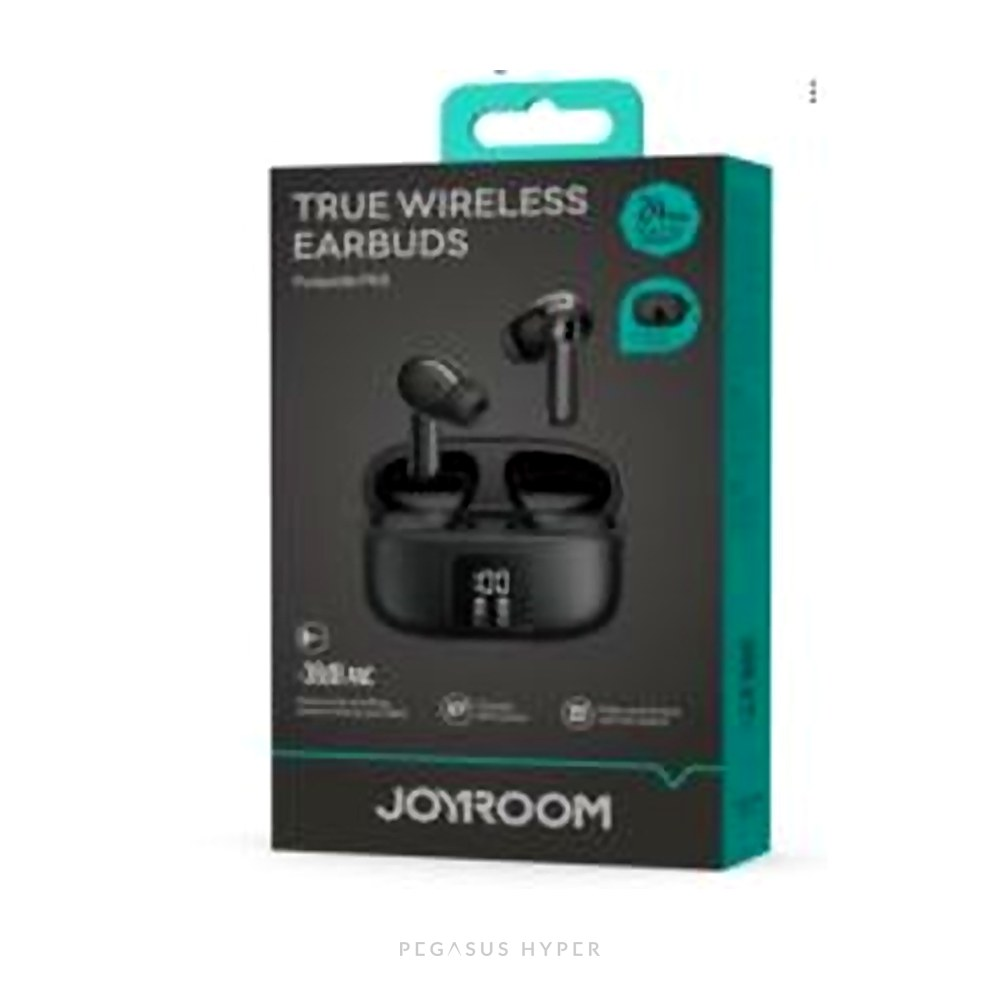
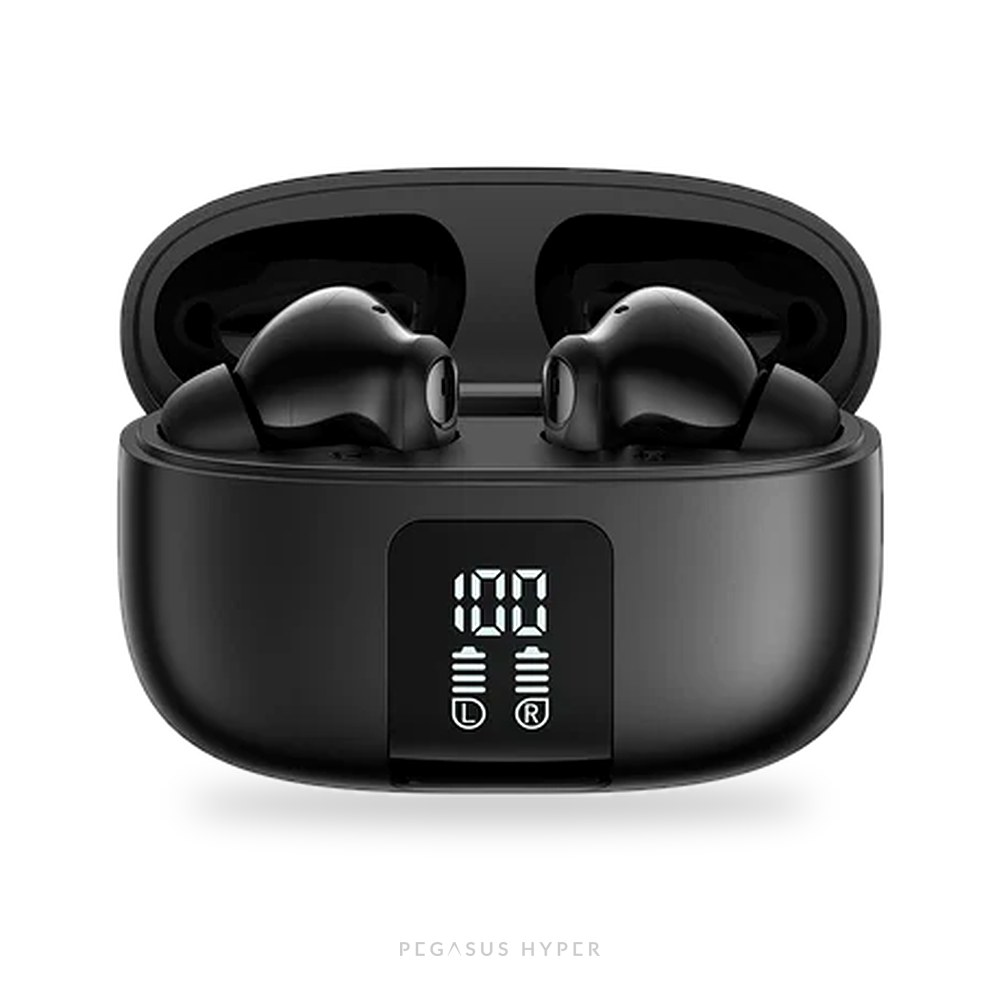
Fotos oficiales: Joyroom JR-FN3
Claude-Session: https://claude.ai/code/session_01QzBC3GvQTn7Gt9U5Snn8Cv

diff --git a/public/index.html b/public/index.html
@@ -551,8 +551,8 @@ const prodById=id=>PRODUCTS.find(p=>p.id===id);
 
 /* ---------- product card ---------- */
 const EXTRA={"MER0052":{"modelo":"LX-10","descripcion":"Audífonos inalámbricos con estuche de carga que trae pantalla táctil a color, para controlar la música y ver la batería sin sacar el celular.\n• Conexión Bluetooth: se emparejan al abrir el estuche\n• Pantalla en el estuche para controlar música y volumen\n• Diseño in-ear liviano, cómodo para usar todo el día\n• Micrófono para llamadas manos libres\nIdeal para: música, llamadas, clases y videos."},"MER0038":{"modelo":"Z10 Plus","descripcion":"Audífonos inalámbricos con estuche inteligente de pantalla táctil y modo de reducción de ruido.\n• Pantalla en el estuche para cambiar canción, volumen y modos\n• Modo de reducción de ruido para concentrarse en lo que escucha\n• Conexión Bluetooth rápida y estable\n• Micrófono para llamadas manos libres\nIdeal para: el bus, el trabajo y el gimnasio."},"MER0040":{"modelo":"L58","descripcion":"Audífonos inalámbricos con estuche de carga con pantalla, diseño compacto y elegante.\n• Pantalla en el estuche para controlar la música y ver la batería\n• Conexión Bluetooth con emparejamiento automático\n• Micrófono para llamadas manos libres\n• Estuche pequeño que cabe en cualquier bolsillo\nIdeal para: el día a día, llamadas y entretenimiento."},"6975011279940":{"modelo":"GH-28","descripcion":"Audífonos inalámbricos in-ear con Bluetooth 5.3 para una conexión estable y bajo consumo de batería.\n• Bluetooth 5.3 con alcance de unos 10 metros\n• Hasta 4 horas de conversación por carga\n• El estuche recarga los audífonos varias veces (250 mAh)\n• Carga completa en unas 2 horas\n• Hasta 60 horas en espera\nIdeal para: llamadas, música y uso diario."},"6974202422141":{"modelo":"Z50","descripcion":"Audífonos inalámbricos con estuche de pantalla táctil y modo de reducción de ruido, con almohadillas de varios tamaños.\n• Pantalla táctil en el estuche: controle música, volumen y modos\n• Modo de reducción de ruido\n• Incluye almohadillas de repuesto de distintos tamaños para un mejor ajuste\n• Incluye cable de carga USB tipo C\n• Micrófono para llamadas manos libres\nIdeal para: quien busca tecnología y estilo a buen precio."},"6974208800187":{"modelo":"ATW-10","descripcion":"Audífonos inalámbricos in-ear livianos, con estuche de carga compacto.\n• Conexión Bluetooth con emparejamiento automático al abrir el estuche\n• Controles táctiles en los audífonos\n• Micrófono para llamadas manos libres\n• Estuche de bolsillo que los protege y recarga\nIdeal para: música, llamadas y uso diario."},"6942712400423":{"modelo":"JR-FN3","descripcion":"Audífonos inalámbricos con cancelación activa de ruido (ANC) que bloquea hasta 38 dB del ruido exterior.\n• Cancelación activa de ruido para aislarse en el bus, la oficina o la calle\n• 4 micrófonos con reducción de ruido (ENC): su voz se escucha clara en llamadas\n• App oficial para ecualizar el sonido y personalizar los controles táctiles\n• Pantalla en el estuche que muestra la batería exacta\n• Incluye funda protectora y mosquetón para colgarlos de la mochila\nIdeal para: viajes, trabajo y llamadas en lugares ruidosos."},"6956116759285":{"modelo":"JR-OH1","descripcion":"Audífonos de diadema inalámbricos con almohadillas acolchadas para usar cómodamente por horas.\n• Hasta 15 horas de música por carga\n• Bluetooth 5.0 con conexión estable\n• Bocinas de 40 mm con bajos profundos\n• Modo con cable: incluye cable de 3,5 mm para usarlos sin batería\n• Micrófono integrado para llamadas manos libres\nIdeal para: clases, trabajo, juegos y música."},"MBL005":{"modelo":"BT12C","descripcion":"Intercomunicador Bluetooth para casco: escuche música, conteste llamadas y siga el GPS mientras maneja.\n• Bluetooth 5.0 con alcance de unos 10 metros\n• Batería de 1000 mAh: entre 15 y 20 horas de uso continuo\n• Contestación de llamadas automática o manual\n• Bocinas delgadas de 30 mm que caben dentro del casco\n• Se instala en la mayoría de cascos integrales y abiertos\nIdeal para: motociclistas, mensajeros y repartidores."},"MBL0009":{"modelo":"BT22","descripcion":"Intercomunicador Bluetooth para casco con micrófono, para manejar con las manos libres.\n• Escuche música, instrucciones del GPS y conteste llamadas sin tocar el celular\n• Micrófono con brazo flexible para que su voz se escuche clara\n• Bocinas delgadas que se colocan dentro del casco\n• Batería recargable por USB\nIdeal para: motociclistas, mensajeros y repartidores."},"PPB0179":{"modelo":"Y-598","descripcion":"Parlante Bluetooth con luces RGB y sonido envolvente de 360°, que también funciona como lámpara de ambiente.\n• Sonido en 360° con bocina de 40 mm y buenos bajos\n• 7 modos de iluminación RGB\n• Conexión Bluetooth 5.0, radio FM, tarjeta TF, USB y AUX\n• Se pueden conectar dos parlantes iguales en estéreo (TWS)\n• Potencia de 5 W y batería de 1200 mAh\nIdeal para: el cuarto, la sala o una reunión pequeña."},"PPB0186":{"modelo":"GS-31","descripcion":"Parlante Bluetooth estéreo con doble bocina y función manos libres.\n• Potencia de 5 W × 2 con dos bocinas de 52 mm\n• Bluetooth 5.0 con alcance de 10 metros\n• Contesta llamadas desde el parlante\n• Batería de 1200 mAh: unas 3 horas de música a volumen normal\n• Carga completa en 3 a 4 horas\nIdeal para: llevar a cualquier lado, la casa o la oficina."},"689237565287":{"modelo":"OP-528","descripcion":"Parlante Bluetooth potente de 25 W con bocina de 4\" y tweeter de 1,5\" para un sonido completo, con graves y agudos claros.\n• Potencia máxima de 25 W\n• Bocina de rango completo de 4\" + tweeter de 1,5\"\n• Bluetooth 5.0 + EDR\n• Batería de 3600 mAh: unas 6 horas de música\n• Carga por puerto USB tipo C (unas 4 horas)\nIdeal para: fiestas, paseos y reuniones."},"689237566587":{"modelo":"OP-521","descripcion":"Parlante Bluetooth con luces LED de colores y cargador inalámbrico para el celular en la parte superior.\n• Cargador inalámbrico integrado: ponga el celular encima y se carga\n• Iluminación LED RGB\n• Potencia de 10 W\n• Bluetooth 5.0 con alcance de 10 metros\n• Conexión por USB, AUX y puerto tipo C\n• Función manos libres para llamadas\nIdeal para: el escritorio o la mesa de noche."},"6920465335506":{"modelo":"OP-550","descripcion":"Parlante Bluetooth para karaoke con dos micrófonos incluidos y luces RGB.\n• Incluye 2 micrófonos para cantar en pareja\n• Luces LED de colores que acompañan la música\n• Conexión Bluetooth con el celular para poner sus canciones\n• Asa para llevarlo a donde quiera\nIdeal para: fiestas, cumpleaños y karaoke en familia."},"6954851211907":{"modelo":"RB-M2","descripcion":"Parlante Bluetooth compacto y resistente al agua, con correa para llevarlo a todas partes.\n• Resistente a salpicaduras y lluvia (IPX5)\n• Potencia de 5 W\n• Batería de 1200 mAh\n• Bluetooth con alcance de unos 10 metros\n• Tamaño de bolsillo con correa\nIdeal para: la playa, la piscina, la ducha y los paseos."},"6954823523243":{"modelo":"P-01","descripcion":"Cargador de pared compacto con salida USB tipo C para cargar el celular en casa o en la oficina.\n• Salida USB tipo C compatible con la mayoría de celulares actuales\n• Diseño compacto con enchufe de patas planas (tipo americano)\nIdeal para: tener un cargador extra en el cuarto, la oficina o el carro de viaje."},"CTC0036":{"modelo":"EI2","descripcion":"Cargador de pared con carga rápida Quick Charge 3.0 (hasta 18 W), incluye cable USB tipo C.\n• Carga rápida QC 3.0 de hasta 18 W\n• Incluye cable USB a tipo C\n• Funciona con voltaje de 100 a 240 V\n• Material resistente al fuego (PC+ABS grado V0)\nIdeal para: celulares Android con puerto tipo C."},"6975011274839":{"modelo":"GA-55MTO","descripcion":"Cargador de pared con salida tipo C y cable trenzado tipo C, en un llamativo color naranja.\n• Salida USB tipo C\n• Cable trenzado resistente, que no se enreda fácilmente\n• Diseño compacto en forma de cubo\nIdeal para: celulares, audífonos y otros dispositivos con puerto tipo C."},"6954851233770":{"modelo":"RCC353","descripcion":"Cargador de carro con transmisor FM: cargue el celular y escuche su música por el radio del carro.\n• Transmisor FM: envía la música del celular al radio del carro\n• Carga rápida PD + QC de hasta 60 W\n• Varios puertos para cargar más de un dispositivo a la vez\nIdeal para: carros sin Bluetooth ni entrada auxiliar."},"6971916562231":{"modelo":"CB21","descripcion":"Cable USB a tipo C de 1 metro con carga rápida de hasta 65 W.\n• Carga rápida de hasta 65 W\n• Transfiere datos y carga al mismo tiempo\n• 1 metro de largo\nIdeal para: celulares Android, tablets y audífonos con puerto tipo C."},"CBCL0022":{"modelo":"CB26","descripcion":"Cable USB a Lightning de 2 metros con conector en ángulo de 90°, para cargar el iPhone mientras lo usa.\n• 2 metros de largo: alcanza la cama o el sillón\n• Conector en ángulo: no estorba al jugar o ver videos en horizontal\n• Carga y transferencia de datos\nIdeal para: iPhone, especialmente para juegos y videos."},"6954851294078":{"modelo":"RC-129i","descripcion":"Cable USB a Lightning de 1 metro para cargar y sincronizar su iPhone.\n• Carga y transfiere datos al mismo tiempo\n• Conector fácil de conectar y desconectar\n• 1 metro de largo\nIdeal para: iPhone y iPad con puerto Lightning."},"6956116728199":{"modelo":"S-A43","descripcion":"Cable USB a Lightning trenzado de 1,5 metros, de carga rápida y alta resistencia.\n• Hasta 3 A de corriente con chip inteligente que evita el sobrecalentamiento\n• Recubrimiento trenzado: resiste más de 10 000 dobleces y tirones de hasta 7 kg\n• Conexión estable con CarPlay gracias a su blindaje anti interferencias\n• Conector con material retardante de llama\n• 1,5 metros de largo\nIdeal para: iPhone en casa, la oficina o el carro."},"6956116765002":{"modelo":"JR-PR1","descripcion":"Batería portátil de 10 000 mAh con cable tipo C retráctil integrado y carga rápida de 22,5 W.\n• Capacidad de 10 000 mAh: carga un iPhone 16 cerca de 1,8 veces\n• Carga rápida de hasta 22,5 W\n• Cable tipo C retráctil integrado: no necesita llevar cable\n• Pantalla digital que muestra la batería restante\n• Modo de baja corriente para audífonos y relojes\n• Protección de seguridad de 9 capas · Solo 200 g\nIdeal para: viajes, el trabajo y el día a día."},"6954851212980":{"modelo":"RPP-588","descripcion":"Batería portátil de 15 000 mAh de capacidad real, para recargar el celular varias veces.\n• Capacidad real de 15 000 mAh\n• Batería de polímero de litio, más segura y duradera\n• Diseño compacto con cordón para colgarla\nIdeal para: viajes, paseos y días largos fuera de casa."},"6954851237808":{"modelo":"CP-1","descripcion":"Batería portátil 3 en 1 de 15 000 mAh con enchufe de pared integrado y carga rápida de 22,5 W.\n• Capacidad de 15 000 mAh\n• Enchufe integrado: se conecta directo a la pared, sin adaptador\n• Carga rápida de hasta 22,5 W\n• Funciona como batería portátil y como cargador de pared\nIdeal para: viajes, la universidad y el trabajo."},"6956116793807":{"modelo":"JR-ZS240 Pro","descripcion":"Soporte magnético para la rejilla del carro con carga inalámbrica de 15 W.\n• Carga inalámbrica de hasta 15 W\n• 22 imanes N52 que alinean el celular automáticamente\n• Gira 360° para verlo en vertical u horizontal\n• Para rejillas horizontales o de barras (no circulares)\n• Para celulares de 4,7\" a 6,8\"\nIdeal para: usar el GPS y cargar el celular mientras maneja."},"6941237197160":{"modelo":"JR-ZS291","descripcion":"Soporte magnético para la rejilla del carro con cargador inalámbrico de hasta 15 W.\n• Carga inalámbrica de 5 W, 7,5 W, 10 W y 15 W\n• Doble anillo de imanes de neodimio: sujeción firme\n• Coloque y quite el celular en segundos\n• Entrada USB tipo C\n• Para celulares de 4,7\" a 6,7\"\nIdeal para: GPS, música y llamadas en el carro."},"6956116734817":{"modelo":"JR-ZS393","descripcion":"Soporte magnético con ventosas que se pega a cualquier superficie lisa: espejo, vidrio, mesa o la pared del gimnasio.\n• Imanes N52 muy potentes\n• Ventosas que sujetan el celular en superficies limpias y lisas\n• Correa de silicona cómoda para llevarlo\n• Compatible con iPhone 12 al 15 y fundas MagSafe; otros celulares necesitan el anillo metálico\n• Para celulares de 4,7\" a 7\"\nIdeal para: grabar videos, hacer ejercicio y viajar."},"HHM0002":{"modelo":"YC50","descripcion":"Soporte plegable para celular o tablet, con ángulo ajustable.\n• Ángulo ajustable para ver cómodo\n• Se pliega para guardarlo o llevarlo\n• Base estable y antideslizante\nIdeal para: videollamadas, clases, recetas y ver videos."},"6976623340578":{"modelo":"MG-02","descripcion":"Soporte de cuello para grabar en primera persona con el celular o una cámara pequeña, con las manos libres.\n• Se apoya en el cuello: grabe con las manos libres\n• Clip magnético compatible con MagSafe\n• Silicona y policarbonato, cómodo y resistente\n• Incluye soporte de cuello, clip para teléfono, adhesivo y cinturón\nIdeal para: creadores de contenido, recetas, tutoriales y viajes."},"6956116743826":{"modelo":"JR-FC1","descripcion":"Reloj inteligente con llamadas por Bluetooth, resistente al agua y con 7 días de batería.\n• Haga y conteste llamadas desde el reloj\n• Pantalla HD de 1,28\" con cristal curvo\n• Monitoreo de ritmo cardíaco, presión, oxígeno en sangre y estrés\n• 94 modos deportivos\n• Resistente al agua IP68\n• Hasta 7 días de uso y 14 en espera\n• Notificaciones de mensajes y apps, alarma, cronómetro y control de música\nIdeal para: el día a día, el trabajo y el ejercicio."},"6956116717872":{"modelo":"JR-FT5","descripcion":"Reloj inteligente con pantalla grande de 1,83\", llamadas por Bluetooth y hasta 10 días de batería.\n• Pantalla HD de 1,83\"\n• Haga y conteste llamadas con un botón\n• Monitoreo de ritmo cardíaco, presión, oxígeno, estrés y sueño\n• Más de 80 modos deportivos\n• Resistente al agua IP68\n• De 7 a 10 días de uso típico · carga magnética\n• Más de 100 carátulas para personalizar\nIdeal para: deporte, salud y uso diario."},"RRI0036":{"modelo":"HK98","descripcion":"Reloj inteligente con pantalla redonda HD de 1,43\" y llamadas por Bluetooth.\n• Pantalla redonda HD de 1,43\" (466 × 466)\n• Haga y reciba llamadas desde el reloj\n• Ritmo cardíaco, monitor de sueño y contador de pasos\n• Notificaciones de llamadas y mensajes\n• Resistente a salpicaduras IP67\n• Compatible con Android y iPhone\nIdeal para: quien quiere estilo clásico con funciones inteligentes."},"PPT0012":{"modelo":"ITOP-305","descripcion":"Vidrio templado para iPhone 17 / 17 Pro con instalación rápida y sin burbujas.\n• Dureza 9H: resiste rayones y golpes del día a día\n• Alta definición: mantiene la nitidez original de la pantalla\n• Instalación en segundos, sin burbujas\n• Tacto suave y sensible, como la pantalla original\n• Capa oleofóbica que reduce huellas y manchas\nCompatible con: iPhone 17 y iPhone 17 Pro."},"PPT0011":{"modelo":"ITOP-305","descripcion":"Vidrio templado para iPhone 17 / Air con instalación rápida y sin burbujas.\n• Dureza 9H: resiste rayones y golpes del día a día\n• Alta definición: mantiene la nitidez original de la pantalla\n• Instalación en segundos, sin burbujas\n• Tacto suave y sensible, como la pantalla original\n• Capa oleofóbica que reduce huellas y manchas\nCompatible con: iPhone 17 y iPhone Air."},"PPT0005":{"modelo":"ITOP-305","descripcion":"Vidrio templado para iPhone 16 con instalación rápida y sin burbujas.\n• Dureza 9H: resiste rayones y golpes del día a día\n• Alta definición: mantiene la nitidez original de la pantalla\n• Instalación en segundos, sin burbujas\n• Tacto suave y sensible, como la pantalla original\n• Capa oleofóbica que reduce huellas y manchas\nCompatible con: iPhone 16."},"PPT0007":{"modelo":"ITOP-305","descripcion":"Vidrio templado para iPhone 16 Pro con instalación rápida y sin burbujas.\n• Dureza 9H: resiste rayones y golpes del día a día\n• Alta definición: mantiene la nitidez original de la pantalla\n• Instalación en segundos, sin burbujas\n• Tacto suave y sensible, como la pantalla original\n• Capa oleofóbica que reduce huellas y manchas\nCompatible con: iPhone 16 Pro."},"PPT0004":{"modelo":"ITOP-305","descripcion":"Vidrio templado para iPhone 15 Pro Max con instalación rápida y sin burbujas.\n• Dureza 9H: resiste rayones y golpes del día a día\n• Alta definición: mantiene la nitidez original de la pantalla\n• Instalación en segundos, sin burbujas\n• Tacto suave y sensible, como la pantalla original\n• Capa oleofóbica que reduce huellas y manchas\nCompatible con: iPhone 15 Pro Max."},"H0011":{"modelo":"Tuya Neón 5 m","descripcion":"Tira LED neón inteligente de 5 metros, controlada desde el celular con la app Tuya.\n• Colores RGB con efectos de iluminación por secciones\n• Control desde la app del celular\n• Luz suave y continua tipo neón, sin puntos visibles\n• Flexible: se adapta a esquinas, muebles y paredes\n• Para uso en interiores (no resistente al agua)\nIdeal para: decorar el cuarto, el setup gamer o la sala."},"TRAC0018":{"modelo":"FL-S20D","descripcion":"Lámpara LED plana de 9\" con soporte de escritorio y batería recargable, para iluminar videos y videollamadas.\n• 120 LED con luz suave que no deslumbra\n• 5 tonos de color y brillo ajustable\n• Cabezal giratorio de 180°\n• Batería recargable por USB: úsela sin enchufe\n• Incluye soporte y porta celular\nIdeal para: videollamadas, clases en línea, maquillaje y TikTok."},"TRAC0019":{"modelo":"HL-144M","descripcion":"Barra de luz LED RGB portátil de 55 cm con batería recargable, para fotografía y video.\n• 144 LED con alta fidelidad de color (CRI ≥ 95)\n• Colores RGB y luz blanca de 3000 K a 7500 K\n• Batería de 4000 mAh: de 2 a 10 horas de uso\n• Carga por USB tipo C en unas 2,5 horas\n• Cuerpo de aluminio liviano (400 g)\nIdeal para: creadores de contenido, fotografía de producto y setups gamer."},"TRMU0025":{"modelo":"CM-50","descripcion":"Trípode de escritorio de aluminio con prensa, para montar luces, micrófonos o cámaras sobre la mesa.\n• Se sujeta a mesas de hasta 8 cm de grosor\n• Altura ajustable de 34,5 a 58 cm\n• Rosca estándar de 1/4\": sirve para luces LED, cámaras y monitores\n• Aluminio liviano (434 g)\nIdeal para: streamers, clases en línea y creadores de contenido."},"6976623340493":{"modelo":"MC-PW13","descripcion":"Micrófono USB para PC y celular, conecte y grabe sin instalar nada.\n• Conexión USB para computadora y tipo C para celular\n• Patrón cardioide: capta su voz y reduce el ruido de alrededor\n• Plug and play: no necesita programas\n• Compatible con PC, laptop, celular y tablet\nIdeal para: podcasts, streaming, juegos y clases en línea."},"6974363711382":{"modelo":"PG-9666SH","descripcion":"Control inalámbrico multiplataforma con luces RGB, vibración y botones programables.\n• Compatible con Android, iPhone, iPad, PC, Nintendo Switch, PS3 y PS4\n• Juegue directo, sin apps ni configuraciones complicadas\n• Doble motor de vibración y función TURBO\n• Botones programables\n• Diseño ergonómico, cómodo para jugar por horas\nIdeal para: gamers que juegan en varias plataformas."},"6974363710248":{"modelo":"PG-SW018","descripcion":"Control inalámbrico con luces LED y botones traseros, compatible con Nintendo Switch, PC y Android.\n• Compatible con Nintendo Switch, PC y Android\n• Más de 15 horas de juego por carga\n• Botones traseros adicionales y luces LED\n• Carga completa en unas 3 horas\n• Hasta 30 días en espera\nIdeal para: Nintendo Switch y juegos de PC."},"6987542691351":{"modelo":"PG-9135","descripcion":"Control tipo joystick para celular y tablet, con soporte para sostener el teléfono.\n• Compatible con Android, iPhone y tablets\n• Conexión Bluetooth con alcance de 8 metros\n• Batería recargable por USB\n• Joystick y botones físicos para mayor control en los juegos\nIdeal para: juegos de pelea, arcade y acción en el celular."},"6932391918623":{"modelo":"CM370","descripcion":"Kit gamer 4 en 1: teclado, mouse, audífonos y mouse pad, todo con iluminación.\n• Teclado retroiluminado arcoíris, resistente a derrames\n• Mouse con 4 niveles de DPI (800 a 3200) y luz de 7 colores\n• Audífonos con bocinas de 40 mm y micrófono\n• Mouse pad incluido\n• Conexión USB: conecte y juegue\nIdeal para: empezar su setup gamer o renovar el de la oficina."},"6932391931042":{"modelo":"SG-302","descripcion":"Parlante en forma de G con lámpara RGB de ambiente: música y luz decorativa en un solo equipo.\n• Arco de luz LED con colores RGB\n• Parlante con conexión Bluetooth\n• Diseño moderno que decora el cuarto o el escritorio\nIdeal para: la mesa de noche, el escritorio o el setup gamer."},"6932391929025":{"modelo":"SG-286","descripcion":"Barra de sonido para PC con iluminación RGB, se conecta por cable o Bluetooth.\n• Potencia de 5 W × 2\n• Conexión USB + 3,5 mm o Bluetooth\n• Iluminación RGB\n• Respuesta de frecuencia de 60 Hz a 20 kHz\n• 42 cm de ancho: cabe debajo del monitor\nIdeal para: la computadora, la laptop y el escritorio."},"6932391933336":{"modelo":"BS010","descripcion":"Parlante Bluetooth tipo cubo con diseño mecánico e iluminación RGB.\n• Potencia de 5 W × 2\n• Bluetooth 5.3 con alcance de 8 a 10 metros\n• Batería de 1200 mAh: unas 3 horas de música\n• Funciones: tarjeta TF, AUX y conexión de dos parlantes (TWS)\n• Carga en aproximadamente 1,5 horas\nIdeal para: el escritorio gamer o llevar a cualquier lado."},"6932391925164":{"modelo":"SG-274","descripcion":"Par de parlantes para PC con 6 efectos de luz RGB y conexión por cable o Bluetooth.\n• Potencia de 3 W × 2\n• 6 modos de iluminación RGB con control táctil\n• Perilla de volumen al frente\n• Conexión 3,5 mm + USB o Bluetooth (hasta 10 m)\n• Compatible con PC, celular y reproductores\nIdeal para: la computadora y el setup gamer."},"6932391932179":{"modelo":"SG-500","descripcion":"Par de parlantes estéreo 2.0 para PC con iluminación RGB.\n• Potencia de 2 × 2,2 W (hasta 2 × 3,2 W)\n• Bocinas de 52 mm\n• Iluminación RGB con interruptor de luz\n• Botones de volumen y encendido\n• Alimentación por USB 5 V\nIdeal para: la computadora del hogar o la oficina."},"6932391927571":{"modelo":"SG-132","descripcion":"Parlante gamer grande de 20 W con bocina de 8\" e iluminación RGB, con entrada para micrófono.\n• Potencia de 20 W\n• Bocina de 8 pulgadas para bajos potentes\n• Conexión inalámbrica, 3,5 mm y USB\n• Entrada para micrófono de 6,5 mm: sirve para karaoke\n• Iluminación RGB\nIdeal para: fiestas, juegos y karaoke en casa."},"6932391925782":{"modelo":"SG-272","descripcion":"Barra de sonido para PC de 10 W con luces RGB, conecte y escuche sin drivers.\n• Sonido de 10 W\n• Luces RGB: encienda, apague o cambie el modo con un botón\n• Plug and play con cable de 3,5 mm, alimentación por USB\n• Compatible con PC, laptop, tablet y celular\n• Se coloca debajo del monitor para ahorrar espacio\nIdeal para: el escritorio de la casa o la oficina."},"6932391926574":{"modelo":"SG-100","descripcion":"Barra de sonido portátil con Bluetooth 5.0, batería de 4000 mAh y 10 modos de luz RGB.\n• Bluetooth 5.0 y entrada auxiliar\n• Batería de 4000 mAh: de 3 a 4 horas de música\n• 10 modos de iluminación RGB\n• Carga completa en unas 2 horas\nIdeal para: el escritorio o llevarla a cualquier habitación."},"6932391924181":{"modelo":"SG-235","descripcion":"Sistema de sonido 2.1 para PC: dos parlantes y un subwoofer para bajos más profundos, con luces RGB.\n• Sistema 2.1 con subwoofer\n• Iluminación RGB simétrica\n• Alimentación por USB y conexión de 3,5 mm\n• Compatible con computadora, laptop y reproductores\nIdeal para: películas, música y juegos en la computadora."},"6932391923955":{"modelo":"SG-280","descripcion":"Parlantes gamer 2 en 1: úselos separados como parlantes 2.0 o unidos como barra de sonido.\n• Dos modos: parlantes separados o barra de sonido\n• Conexión por cable (3,5 mm + USB) o Bluetooth\n• 6 modos de luz RGB con control táctil\n• Bajos mejorados y control de volumen\n• Potencia de 3 W × 2\nIdeal para: la computadora y el setup gamer."},"6970939958212":{"modelo":"L101","descripcion":"Barra de sonido para escritorio con iluminación RGB, conexión por cable de 3,5 mm.\n• Potencia total de 6 W con dos bocinas\n• Iluminación RGB que se enciende automáticamente\n• Conexión de 3,5 mm y alimentación por USB\n• Control de volumen físico\n• 41,5 cm de largo: cabe debajo del monitor\nIdeal para: la computadora y la laptop."},"6932391923832":{"modelo":"SG-269","descripcion":"Par de parlantes RGB para PC con graves potentes, conexión por cable o inalámbrica.\n• Potencia de 3 W × 2\n• Iluminación RGB con control táctil\n• Modo con cable (3,5 mm) o inalámbrico\n• Control de volumen continuo\n• Compatible con PC, laptop, celular y tablet\nIdeal para: juegos, películas y música."},"6932391920138":{"modelo":"SG-118","descripcion":"Par de parlantes estéreo para PC con iluminación RGB de 7 colores.\n• Potencia total de 6 W\n• Iluminación RGB de 7 colores\n• Alimentación por USB y conexión de 3,5 mm\n• Compatible con computadora, laptop y celular\nIdeal para: el escritorio gamer o de estudio."},"6932391919712":{"modelo":"SG-265","descripcion":"Par de parlantes estéreo para PC con sonido envolvente e iluminación RGB.\n• Potencia de 3 W × 2\n• Agudos brillantes, medios claros y graves con cuerpo\n• Control táctil para encender o apagar la luz\n• Plug and play: alimentación USB y conexión de 3,5 mm\nIdeal para: la computadora del hogar, la oficina o el setup gamer."}};
-const GAL={"6972431710558": {"n": 3, "v": 1794160250}, "6972431710503": {"n": 3, "v": 1794160365}, "6956116759285": {"n": 3, "v": 1794105228}, "6956116790981": {"n": 3, "v": 1794160679}, "6972431710589": {"n": 3, "v": 1794160468}, "6942712400454": {"n": 3, "v": 1794160528}, "6941237101976": {"n": 3, "v": 1794160567}};
-const OLDH={"MER0052": [2749014700, 4225107671], "MER0038": [3831885688, 4225107671], "MER0040": [3605975600, 4225107671], "6975011279940": [3790562238, 4197648474], "6974202422141": [3800045003, 1825989886], "6974208800187": [1414427026, 4225107671], "6942712400423": [255861720, 127022891], "6956116759285": [341980305, 3221100894], "MBL005": [2437441457, 1606884057], "MBL0009": [3976217354, 173699986], "PPB0179": [3604218138, 2880370861], "PPB0186": [3928688459, 3383800739], "689237565287": [4293117097, 2950079167], "689237566587": [166212992, 507084516], "6920465335506": [3852330193, 2774141514], "6954851211907": [576385342, 2600703707], "6954823523243": [194181690, 1376445219], "CTC0036": [566988091, 857278037], "6975011274839": [3342620203, 2699993453], "6954851233770": [2955161856, 3964439596], "6971916562231": [2811133588, 3097602935], "CBCL0022": [1963380552, 3241909601], "6954851294078": [1322521730, 246033872], "6956116728199": [1738851613, 4053266856], "6956116765002": [108550017, 3891569284], "6954851212980": [1945340702, 3052653073], "6954851237808": [3460627181, 2849955887], "6956116793807": [1240468257, 2341358998], "6941237197160": [3876107335, 3194004674], "6956116734817": [2285522133, 3284133586], "HHM0002": [1294366882, 816111689], "6976623340578": [4156358959, 4151588969], "6956116743826": [3927649263, 2988330167], "6956116717872": [1149206951, 3732869153], "RRI0036": [3499879803, 3591246143], "PPT0012": [341724370, 2996995825], "PPT0011": [327867798, 2996995825], "PPT0005": [1166614305, 2996995825], "PPT0007": [2613584076, 2996995825], "PPT0004": [4027645595, 2996995825], "H0011": [1683736091, 2270251069], "TRAC0018": [962198014, 4028356545], "TRAC0019": [497990327, 210427933], "TRMU0025": [827257715, 607656255], "6976623340493": [3274596504, 3405327665], "6974363711382": [1126023378, 879176841], "6974363710248": [3044130612, 4079074383], "6987542691351": [3010731532, 1644794674], "6932391918623": [792706219, 3125879673], "6932391931042": [1262896342, 493472868], "6932391929025": [2854183919, 2887914965], "6932391933336": [2597569781, 4026755384], "6932391925164": [3223942912, 2295982066], "6932391932179": [4266682947, 291458769], "6932391927571": [800231401, 3635649368], "6932391925782": [3407777626, 3685025634], "6932391926574": [1817275706, 100742309], "6932391924181": [2738327766, 3334473208], "6932391923955": [1898084008, 2483469095], "6970939958212": [3301408307, 1962399827], "6932391923832": [1445017834, 2295982066], "6932391920138": [4015831493, 290266281], "6932391919712": [1702337528, 591857966]};const IMGV="1794160681";
+const GAL={"6972431710558": {"n": 3, "v": 1794160250}, "6972431710503": {"n": 3, "v": 1794160365}, "6956116759285": {"n": 3, "v": 1794105228}, "6956116790981": {"n": 3, "v": 1794160679}, "6972431710589": {"n": 3, "v": 1794160468}, "6942712400454": {"n": 3, "v": 1794160528}, "6942712400423": {"n": 3, "v": 1794160726}, "6941237101976": {"n": 3, "v": 1794160567}};
+const OLDH={"MER0052": [2749014700, 4225107671], "MER0038": [3831885688, 4225107671], "MER0040": [3605975600, 4225107671], "6975011279940": [3790562238, 4197648474], "6974202422141": [3800045003, 1825989886], "6974208800187": [1414427026, 4225107671], "6942712400423": [255861720, 127022891], "6956116759285": [341980305, 3221100894], "MBL005": [2437441457, 1606884057], "MBL0009": [3976217354, 173699986], "PPB0179": [3604218138, 2880370861], "PPB0186": [3928688459, 3383800739], "689237565287": [4293117097, 2950079167], "689237566587": [166212992, 507084516], "6920465335506": [3852330193, 2774141514], "6954851211907": [576385342, 2600703707], "6954823523243": [194181690, 1376445219], "CTC0036": [566988091, 857278037], "6975011274839": [3342620203, 2699993453], "6954851233770": [2955161856, 3964439596], "6971916562231": [2811133588, 3097602935], "CBCL0022": [1963380552, 3241909601], "6954851294078": [1322521730, 246033872], "6956116728199": [1738851613, 4053266856], "6956116765002": [108550017, 3891569284], "6954851212980": [1945340702, 3052653073], "6954851237808": [3460627181, 2849955887], "6956116793807": [1240468257, 2341358998], "6941237197160": [3876107335, 3194004674], "6956116734817": [2285522133, 3284133586], "HHM0002": [1294366882, 816111689], "6976623340578": [4156358959, 4151588969], "6956116743826": [3927649263, 2988330167], "6956116717872": [1149206951, 3732869153], "RRI0036": [3499879803, 3591246143], "PPT0012": [341724370, 2996995825], "PPT0011": [327867798, 2996995825], "PPT0005": [1166614305, 2996995825], "PPT0007": [2613584076, 2996995825], "PPT0004": [4027645595, 2996995825], "H0011": [1683736091, 2270251069], "TRAC0018": [962198014, 4028356545], "TRAC0019": [497990327, 210427933], "TRMU0025": [827257715, 607656255], "6976623340493": [3274596504, 3405327665], "6974363711382": [1126023378, 879176841], "6974363710248": [3044130612, 4079074383], "6987542691351": [3010731532, 1644794674], "6932391918623": [792706219, 3125879673], "6932391931042": [1262896342, 493472868], "6932391929025": [2854183919, 2887914965], "6932391933336": [2597569781, 4026755384], "6932391925164": [3223942912, 2295982066], "6932391932179": [4266682947, 291458769], "6932391927571": [800231401, 3635649368], "6932391925782": [3407777626, 3685025634], "6932391926574": [1817275706, 100742309], "6932391924181": [2738327766, 3334473208], "6932391923955": [1898084008, 2483469095], "6970939958212": [3301408307, 1962399827], "6932391923832": [1445017834, 2295982066], "6932391920138": [4015831493, 290266281], "6932391919712": [1702337528, 591857966]};const IMGV="1794160728";
 function hh(t){let h=5381;t=String(t).trim();for(let i=0;i<t.length;i++)h=((h*33)^t.charCodeAt(i))>>>0;return h}
 const rxe=s=>s.replace(/[.*+?^${}()|[\]\\]/g,"\\$&");
 function shortName(p){let s=" "+p.nombre+" ";
